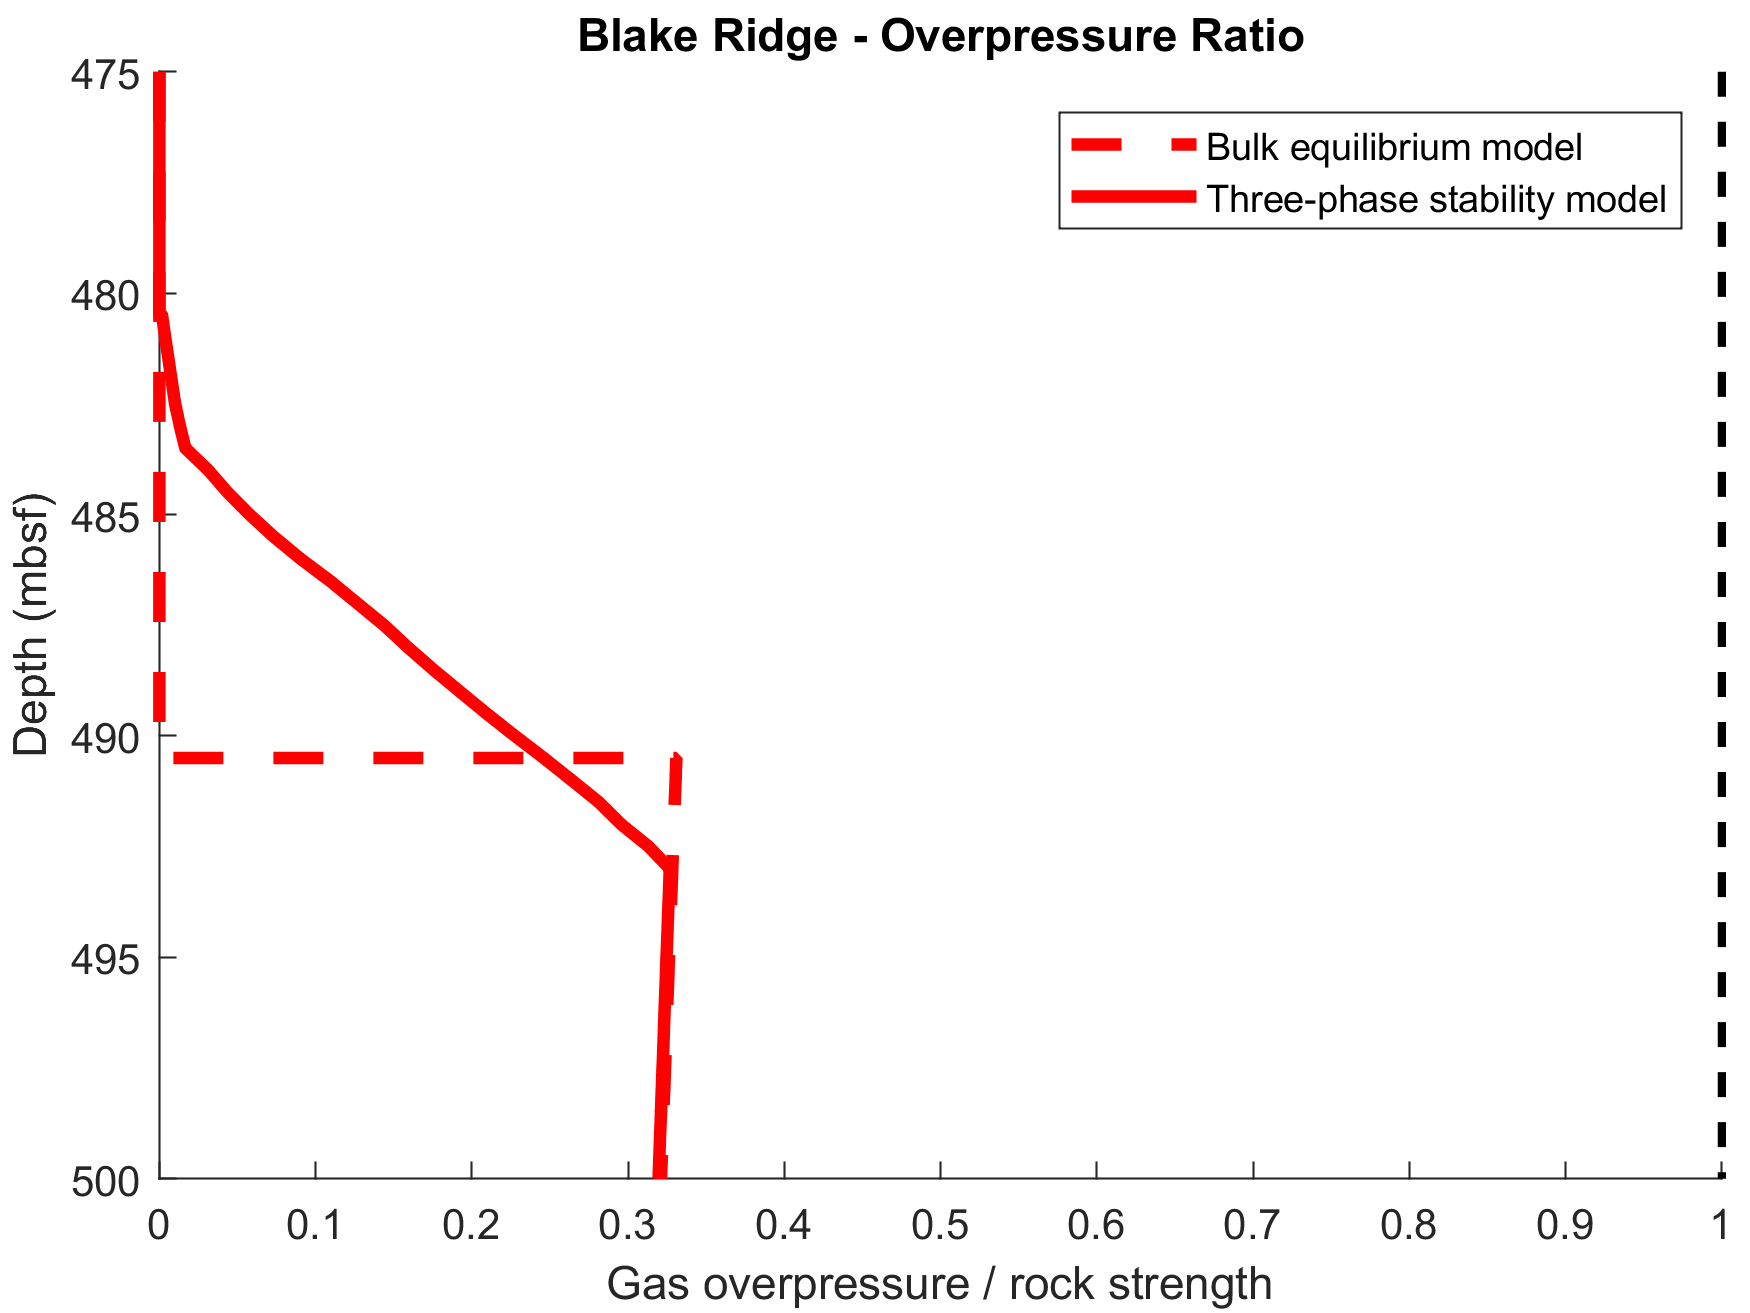
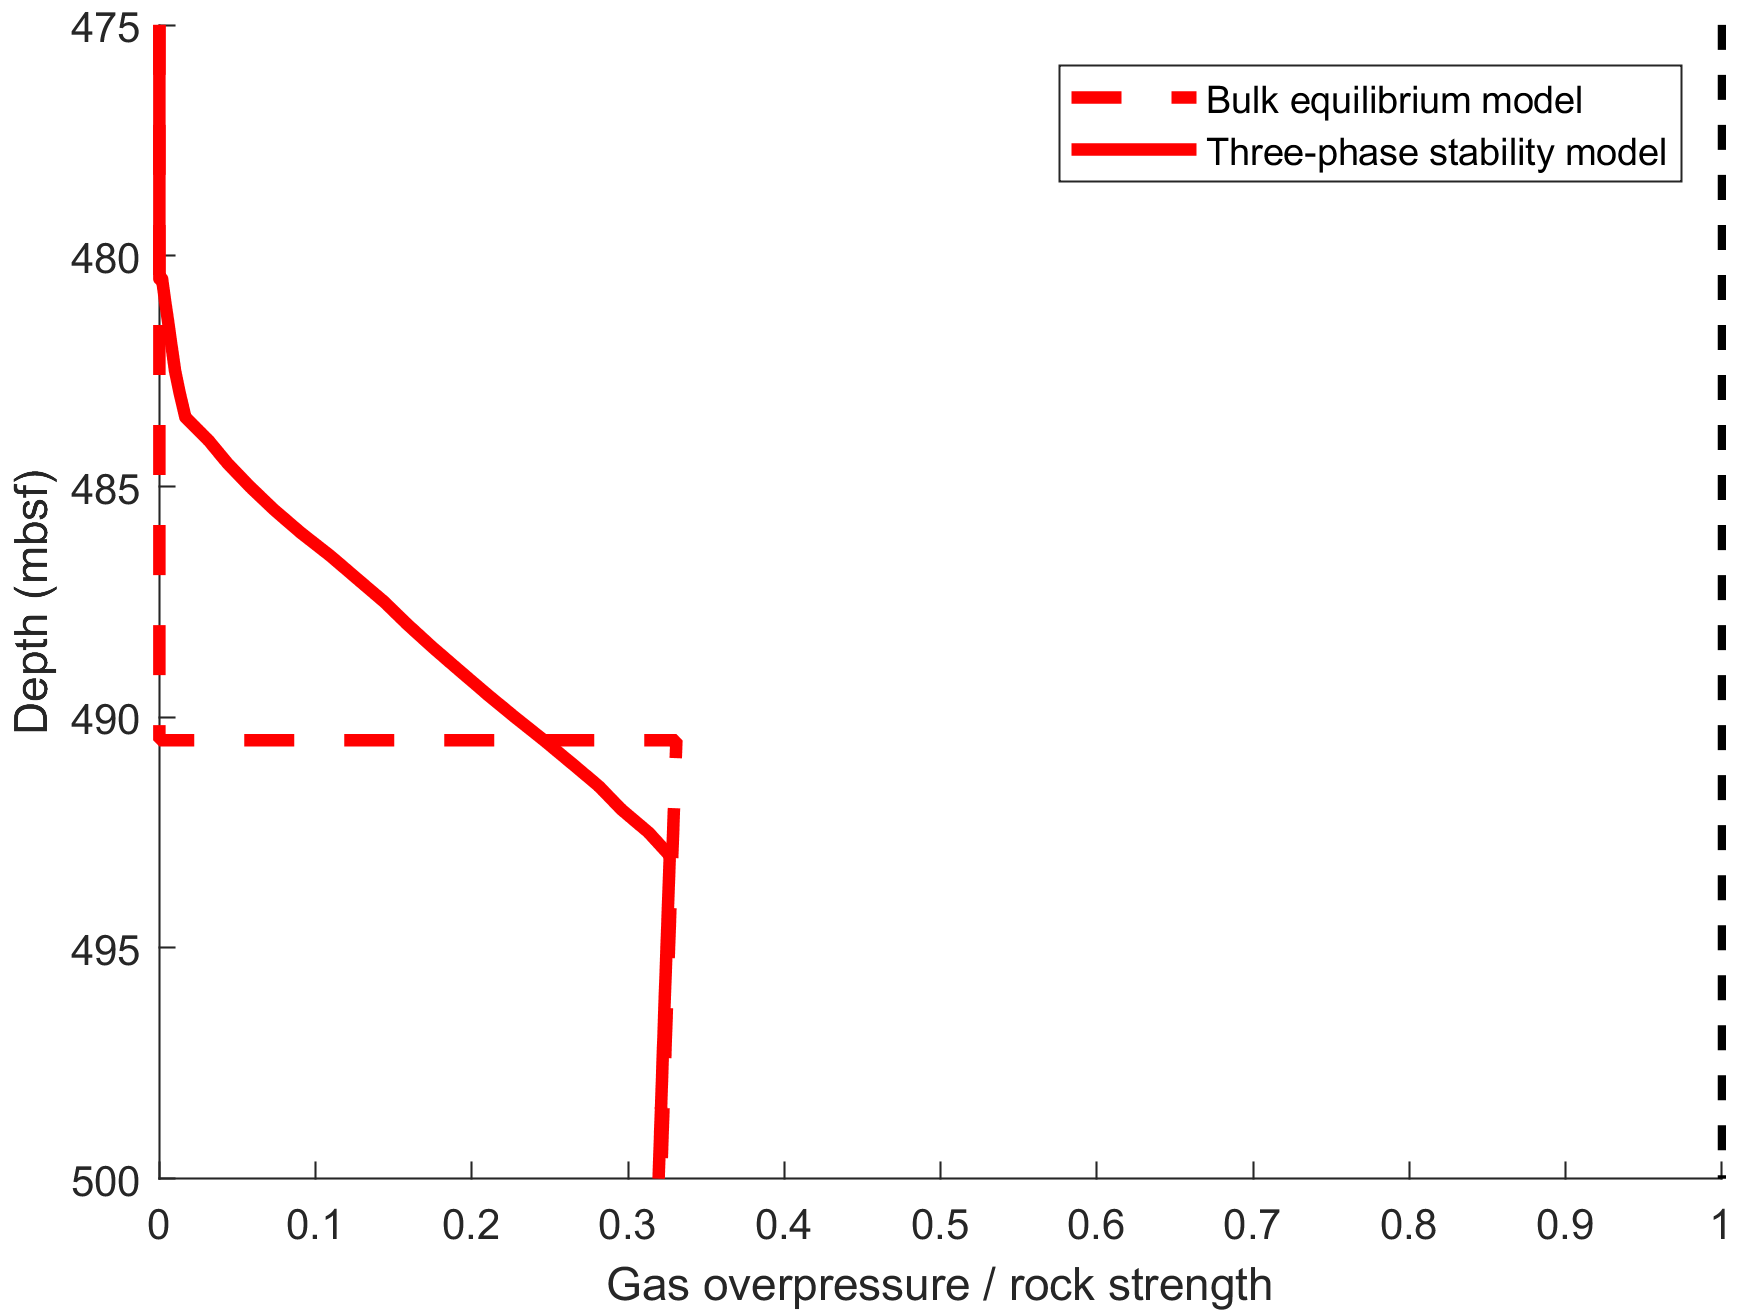
Adjusted result and half discussion figures for JGR SE

diff --git a/DCKumanoBasin.m b/DCKumanoBasin.m
@@ -8,10 +8,10 @@ classdef DCKumanoBasin < BCFormation
     properties (Constant)
         poissonsRatio = 0.4;
         
-        satAxis = [0 1 400 430];
-        solAxis = [0.155 0.17 400 430];
-        pcgwAxis = [0 2.5 400 430];
-        ratioAxis = [0 1.2 400 430];
+        satAxis = [0 1 405 428];
+        solAxis = [0.159 0.167 405 428];
+        pcgwAxis = [0 2.5 405 428];
+        ratioAxis = [0 1 405 428];
     end
     methods
         %%% Constructor
@@ -187,21 +187,21 @@ classdef DCKumanoBasin < BCFormation
             
             figure(solFigure)
             axis(obj.solAxis)
-            title('Kumano Basin - Solubility Path')
+            %title('Kumano Basin - Solubility Path')
         end
         function [ sat2PFigure ] = PlotSat2P( obj , sat2PFigure , exportTable , transitionZoneProperties , lineStyle )
             sat2PFigure = obj.PlotSat2P@BCFormation( sat2PFigure , exportTable , transitionZoneProperties , lineStyle );
             
             figure(sat2PFigure)
             axis(obj.satAxis)
-            title('Kumano Basin - 2 Phase Case')
+            %title('Kumano Basin - 2 Phase Case')
         end
         function [ sat3PFigure ] = PlotSat3P( obj , sat3PFigure , exportTable , lineStyle )
             sat3PFigure = obj.PlotSat3P@BCFormation( sat3PFigure , exportTable , lineStyle );
             
             figure(sat3PFigure)
             axis(obj.satAxis)
-            title('Kumano Basin - 3 Phase Case')
+            %title('Kumano Basin - 3 Phase Case')
         end        
         function [ pcgwFigure ] = PlotPcgw( obj , pcgwFigure , exportTable , transitionZoneProperties , lineStylePc )
             pcgwFigure = PlotPcgw@BCFormation( obj , pcgwFigure , exportTable , transitionZoneProperties , lineStylePc );
@@ -209,15 +209,15 @@ classdef DCKumanoBasin < BCFormation
             figure(pcgwFigure)
 
             axis(obj.pcgwAxis)
-            title('Kumano Basin - Gas Overpressure')
+            %title('Kumano Basin - Gas Overpressure')
         end
         function [ ratioFigure ] = PlotRatio( obj , ratioFigure , exportTable , transitionZoneProperties , lineStyleRatio )
             [ ratioFigure ] = PlotRatio@BCFormation( obj , ratioFigure , exportTable , transitionZoneProperties , lineStyleRatio );
             
             figure(ratioFigure)
             
-            title('Kumano Basin - Overpressure Ratio')
             axis(obj.ratioAxis)
+            %title('Kumano Basin - Overpressure Ratio')
         end
     end
     methods (Static)

diff --git a/DCHydrateRidge.m b/DCHydrateRidge.m
@@ -5,10 +5,10 @@ classdef DCHydrateRidge < BCFormation
     properties (Constant)
         poissonsRatio = 0.4;
         
-        satAxis = [0 1 100 160];
-        solAxis = [0.1 0.125 100 160];
-        pcgwAxis = [0 2 100 160];
-        ratioAxis = [0 3.5 100 160];
+        satAxis = [0 1 105 155];
+        solAxis = [0.102 0.122 105 155];
+        pcgwAxis = [0 2 105 155];
+        ratioAxis = [0 3.5 105 155];
     end
     methods
         %%% Constructor
@@ -150,21 +150,21 @@ classdef DCHydrateRidge < BCFormation
             
             figure(solFigure)
             axis(obj.solAxis)
-            title('Hydrate Ridge - Solubility Path')
+            %title('Hydrate Ridge - Solubility Path')
         end
         function [ sat2PFigure ] = PlotSat2P( obj , sat2PFigure , exportTable , transitionZoneProperties , lineStyle )
             sat2PFigure = obj.PlotSat2P@BCFormation( sat2PFigure , exportTable , transitionZoneProperties , lineStyle );
             
             figure(sat2PFigure)
             axis(obj.satAxis)
-            title('Hydrate Ridge - 2 Phase Case')
+            %title('Hydrate Ridge - 2 Phase Case')
         end
         function [ sat3PFigure ] = PlotSat3P( obj , sat3PFigure , exportTable , lineStyle )
             sat3PFigure = obj.PlotSat3P@BCFormation( sat3PFigure , exportTable , lineStyle );
             
             figure(sat3PFigure)
             axis(obj.satAxis)
-            title('Hydrate Ridge - 3 Phase Case')
+            %title('Hydrate Ridge - 3 Phase Case')
         end        
         
         function PlotMICP( obj )
@@ -212,15 +212,15 @@ classdef DCHydrateRidge < BCFormation
             figure(pcgwFigure)
 
             axis(obj.pcgwAxis)
-            title('Hydrate Ridge - Gas Overpressure')
+            %title('Hydrate Ridge - Gas Overpressure')
         end
         function ratioFigure = PlotRatio( obj , ratioFigure , exportTable , transitionZoneProperties , lineStyleRatio )
             [ ratioFigure ] = PlotRatio@BCFormation( obj , ratioFigure , exportTable , transitionZoneProperties , lineStyleRatio );
             
             figure(ratioFigure)
-            
-            title('Hydrate Ridge - Overpressure Ratio')
+
             axis(obj.ratioAxis)
+            %title('Hydrate Ridge - Overpressure Ratio')
         end
         
     end

diff --git a/DCBlakeRidge.m b/DCBlakeRidge.m
@@ -110,21 +110,21 @@ classdef DCBlakeRidge < BCFormation
             
             figure(solFigure)
             axis(obj.solAxis)
-            title('Blake Ridge - Solubility Path')
+            %title('Blake Ridge - Solubility')
         end
         function [ sat2PFigure ] = PlotSat2P( obj , sat2PFigure , exportTable , transitionZoneProperties , lineStyle )
             sat2PFigure = obj.PlotSat2P@BCFormation( sat2PFigure , exportTable , transitionZoneProperties , lineStyle );
             
             figure(sat2PFigure)
             axis(obj.satAxis)
-            title('Blake Ridge - 2 Phase Case')
+            %title('Blake Ridge - 2 Phase Case')
         end
         function [ sat3PFigure ] = PlotSat3P( obj , sat3PFigure , exportTable , lineStyle )
             sat3PFigure = PlotSat3P@BCFormation( obj , sat3PFigure , exportTable , lineStyle );
             
             figure(sat3PFigure)
             axis(obj.satAxis)
-            title('Blake Ridge - 3 Phase Case')
+            %title('Blake Ridge - 3 Phase Case')
         end
         
         function PlotMICP( obj )
@@ -178,14 +178,14 @@ classdef DCBlakeRidge < BCFormation
             figure(pcgwFigure)
 
             axis(obj.pcgwAxis)
-            title('Blake Ridge - Gas Overpressure')
+            %title('Blake Ridge - Gas Overpressure')
         end
         function [ ratioFigure ] = PlotRatio( obj , ratioFigure , exportTable , transitionZoneProperties , lineStyleRatio )
             [ ratioFigure ] = PlotRatio@BCFormation( obj , ratioFigure , exportTable , transitionZoneProperties , lineStyleRatio );
             
             figure(ratioFigure)
                         
-            title('Blake Ridge - Overpressure Ratio')
+            %title('Blake Ridge - Overpressure Ratio')
             axis(obj.ratioAxis)
         end
         

diff --git a/mainScript.m b/mainScript.m
@@ -52,8 +52,8 @@ clear variables
 % ch4Quantity = 120; % near max for BR
 ch4Quantity = 40;
 
-% obj = DCHydrateRidge();
 obj = DCBlakeRidge();
+% obj = DCHydrateRidge();
 % obj = DCKumanoBasin();
 
 [exportTable, transitionZoneProperties] = obj.RunSolubilitySaturationRoutine(ch4Quantity);
